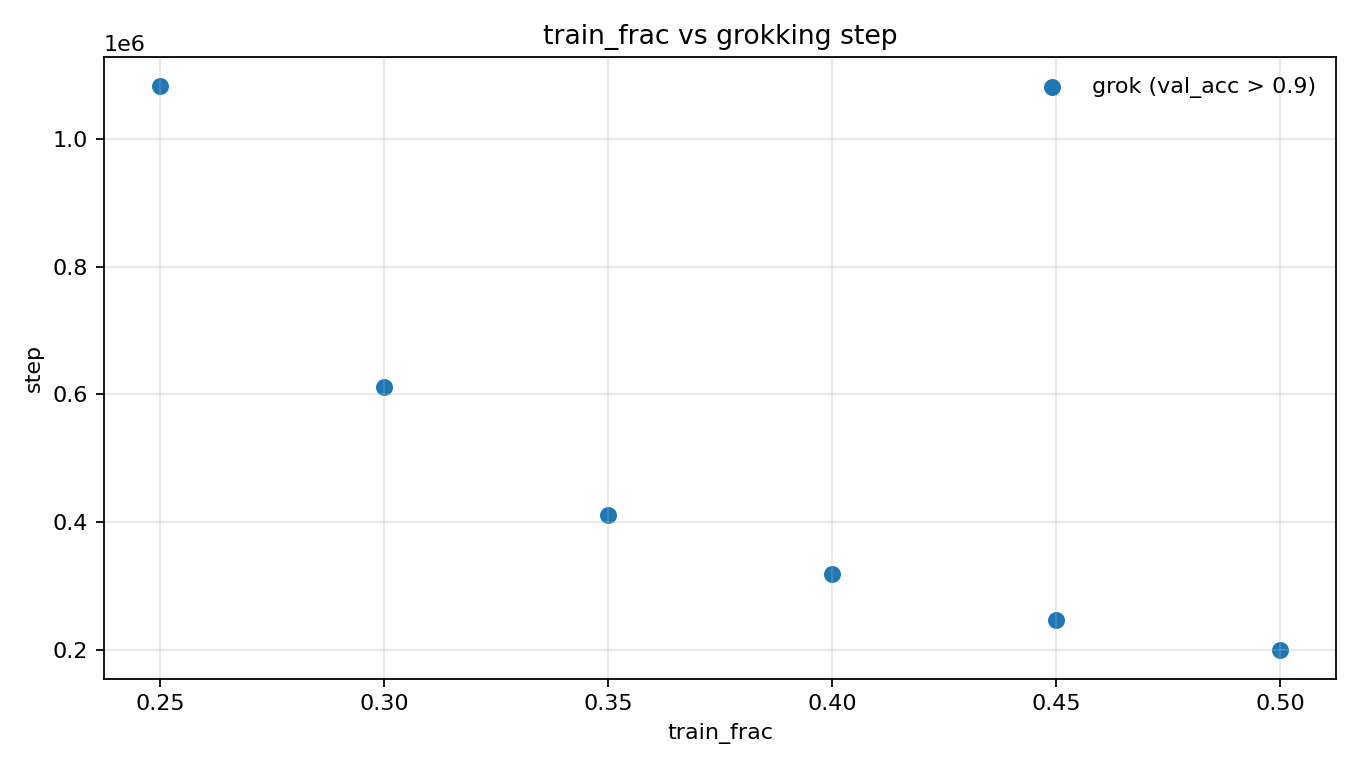
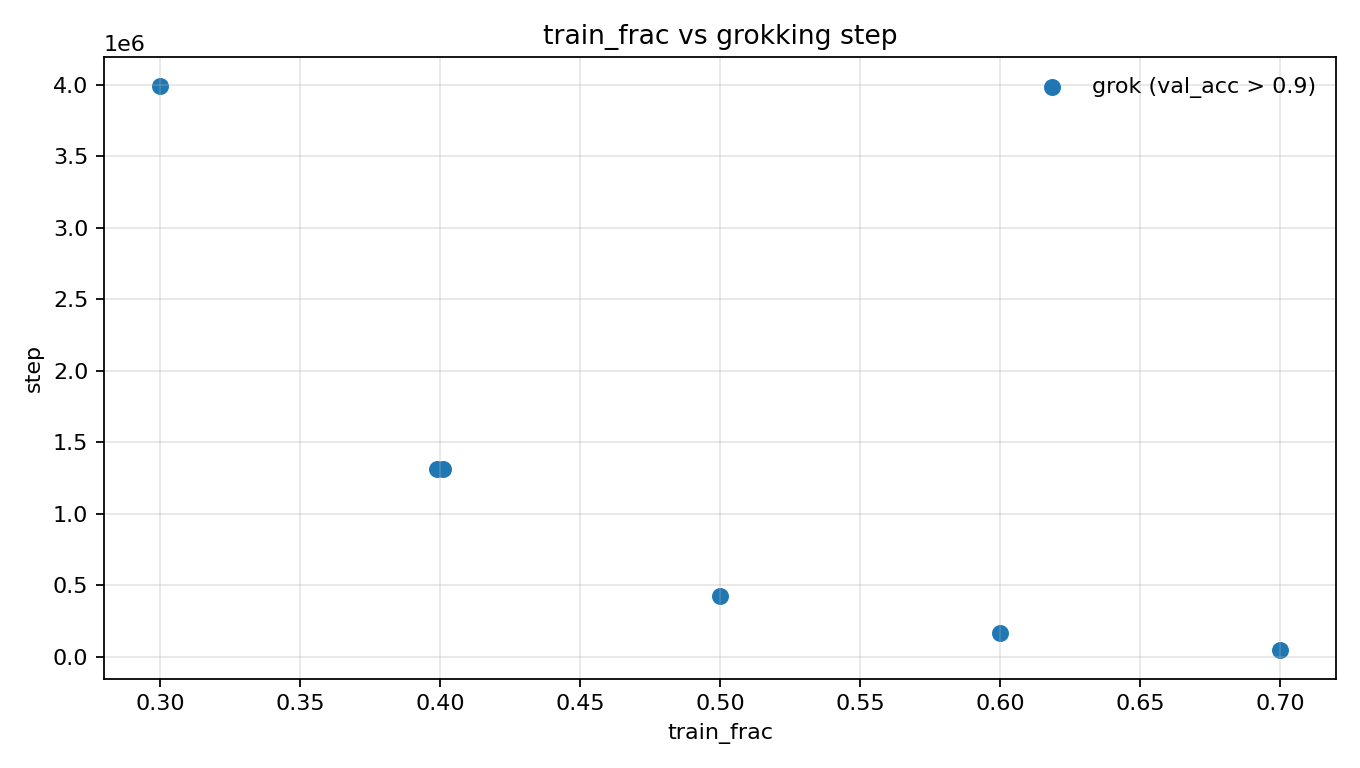
update temp scripts

diff --git a/tmp/plot_loss_accuracy_curves.py b/tmp/plot_loss_accuracy_curves.py
@@ -26,13 +26,13 @@ def main() -> int:
     parser.add_argument(
         "--run-dir",
         type=Path,
-        default=Path("runs/train_frac/20260122_085304"),
+        default=Path("runs/transformer/train_frac/20260206_070842"),
         help="Run directory containing metrics.jsonl",
     )
     parser.add_argument(
         "--out",
         type=Path,
-        default=Path("tmp/train_frac_20260122_085304_loss_accuracy.png"),
+        default=Path("tmp/transformer_train_frac_20260206_070842_loss_accuracy.png"),
         help="Output image path",
     )
     args = parser.parse_args()

diff --git a/tmp/plot_train_frac_vs_grok_step.py b/tmp/plot_train_frac_vs_grok_step.py
@@ -146,7 +146,7 @@ def write_csv(results: list[RunResult], out_path: Path) -> None:
 
 
 def main() -> None:
-    runs_dir = Path("runs/train_frac")
+    runs_dir = Path("runs/transformer/train_frac")
     threshold = 0.9
 
     results = collect_results(runs_dir=runs_dir, threshold=threshold)
